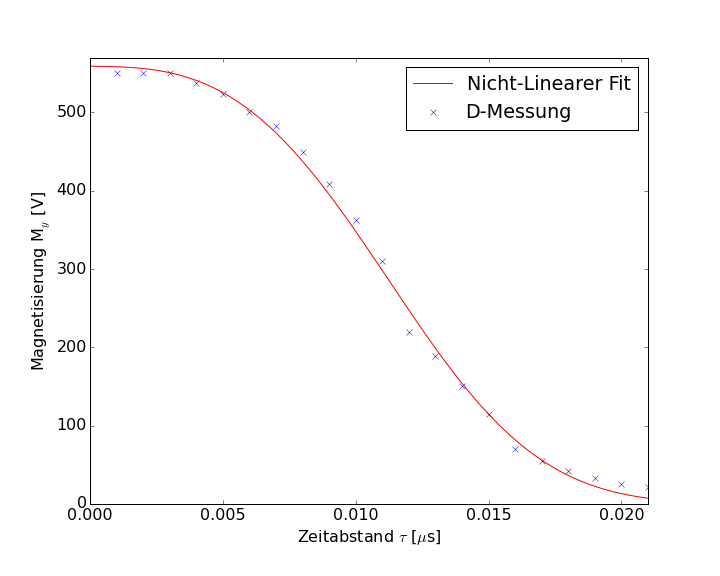
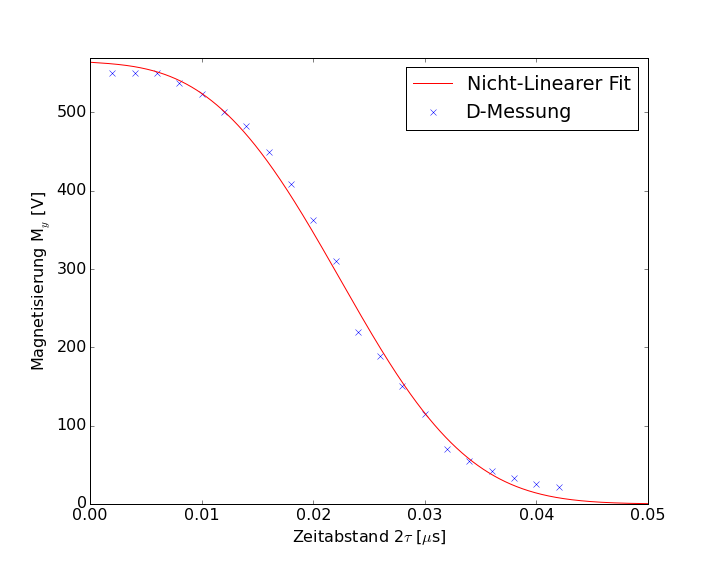
finale Verbesserungen V49

diff --git a/V49/Protokoll/protokoll.tex b/V49/Protokoll/protokoll.tex
@@ -448,13 +448,13 @@ wird eine nicht-lineare Ausgleichsrechnung durchgeführt, wobei dazu die Messwer
 \end{center}
 Die nicht-lineare Ausgleichsrechnung wird mit Python ausgeführt und ergibt 
 \begin{align*}
-M_0&=(559 \pm 4.5)\,\text{mV}\\
-D&=(1.11 \pm 0.03) 10^{-7}\,\text{m$^2$s$^{-1}$}
+M_0&=(564 \pm 4.8)\,\text{mV}\\
+D&=(1.70 \pm 0.04) 10^{-7}\,\text{m$^2$s$^{-1}$}
 \end{align*}
 Der Verlauf der angepassten Theoriekurve sowie die aufgenommenen Messdaten sind in Abbildung \ref{fig:D} zu sehen.
 \begin{center}
 	\includegraphics[width=10cm]{images/plotD.png}
-	\captionof{figure}{Gemessene Amplitude der M$_Y$-Komponente in Abhängigkeit des Zeitabstandes $\tau$ mit Nichtlinearem Fit}
+	\captionof{figure}{Gemessene Amplitude der M$_Y$-Komponente in Abhängigkeit des Zeitabstandes $\tau$ mit nichtlinearem Fit}
 	\label{fig:D}
 \end{center}
 \subsection{Bestimmung der Viskosität $\eta$}
@@ -475,9 +475,9 @@ bestimmt werden. So ergibt sich ein Molekülradius von
 r = 1.992\cdot10^{-12}\,\text{m}
 \end{align*}
 \subsubsection{Berechnung mit dichter-Kugelpackungs-Modell}
-Mit der Annahme, dass Wassermoleküle in einer hexagonal dichtesten Kugelpackung mit Packungsdichte 77\% angeordnet sind, ergibt sich für das Volumen eines Wassermoleküls
+Mit der Annahme, dass Wassermoleküle in einer hexagonal dichtesten Kugelpackung mit Packungsdichte 74\% angeordnet sind, ergibt sich für das Volumen eines Wassermoleküls
 \begin{align*}
-\text{V}=0.74 \frac{\text{M}}{\rho \text{N}_{\text{A}}}\,.
+\text{V}=0.74 \frac{\text{M}}{\rho \text{N}_{\text{A}}}=\frac{4}{3}\pi r_H^3\,.
 \end{align*}
 Mit M=18.015 gmol$^{-1}$[1], der molaren Masse von Wasser und $\rho$ der Dichte von Wasser ergibt sich für den Radius r der Wasser-Moleküle:
 \begin{align*}
@@ -500,14 +500,15 @@ ergibt. \\
 Der Radius r ergibt sich mit T$_c=647.17\si{K}$[1] und p$_c=220.64\si{bar}$[1] zu r =1.44$\cdot10^{-10}\si{m}$.
 
 \section{Diskussion}
+Auffällig ist, dass die Gleichgewichtsmagnetisierung in jeder der drei Auswertungen unterschiedlich ist, obwohl diese eine Konstante der Probe ist. \\
 Die longitudinale Relaxationszeit T$_1=(2.08 \pm 0.01)\si{s}$ sowie die transversale Relaxationszeit T$_2=(1.23 \pm 0.08)\si{s}$ können mit geringem Fehler bestimmt werden. Gemäß der Theorie ist dabei die longitudinale Relaxationszeit länger als die transversale Relaxationszeit. \\
-Der experimentell bestimmte Diffusionskoeffizient D=(1.11$\pm 0.03) \cdot10^{-7}\,\text{m}^2\text{s}^{-1}$ weicht hingegen deutlich vom Literaturwert D=$2.025\cdot10^{-7}\,\text{m}^2\text{s}^{-1}$[4] ab. \\
-Des weiteren ist festzustellen, dass der experimentell bestimmte Molekülradius r=$ 1.992\cdot10^{-12}\,\text{m}$ um zwei Größenordnungen von den berechneten Werten r=$1.74\cdot10^{-10}\si{m}$ und r=$1.44\cdot10^{-10}\si{m}$ abweicht. Eine der möglichen Ursachen dafür liegt in der Tatsache, dass kein destiliertes Wasser bei der Viskositätsmessung verwendet wurde und somit andere gelöste Stoffe einen Einfluss auf die Messung hatten.
+Der experimentell bestimmte Diffusionskoeffizient D\,$=(1.11\pm 0.03) \cdot10^{-7}\,\text{m}^2\text{s}^{-1}$ weicht hingegen deutlich vom Literaturwert D\,$=2.025\cdot10^{-7}\,\text{m}^2\text{s}^{-1}$[4] ab. \\
+Des Weiteren ist festzustellen, dass der experimentell bestimmte Molekülradius r=$ 1.992\cdot10^{-12}\,\text{m}$ um zwei Größenordnungen von den berechneten Werten r=$1.74\cdot10^{-10}\si{m}$ und r=$1.44\cdot10^{-10}\si{m}$ abweicht. Eine der möglichen Ursachen dafür liegt in der Tatsache, dass kein destiliertes Wasser bei der Viskositätsmessung verwendet wurde und somit andere gelöste Stoffe einen Einfluss auf die Messung hatten.
 
 \section{Quellen}
-[1] http://www.uni-magdeburg.de/isut/LSS/Lehre/Arbeitsheft/IV.pdf, Stand 11.02.16
-[2] Versuchsanleitung zu Versuch 49:
-http://129.217.224.2/HOMEPAGE/PHYSIKER/MASTER/SKRIPT/V49.pdf
-[3] Das große Tafelwerk, Cornelsen, 2010
-[4] http://pubs.rsc.org/en/content/articlepdf/2000/cp/b005319h, Stand 11.02.16
+{[1]} http://www.uni-magdeburg.de/isut/LSS/Lehre/Arbeitsheft/IV.pdf, Stand 11.02.16 \\
+{[2]} Versuchsanleitung zu Versuch 49:
+http://129.217.224.2/HOMEPAGE/PHYSIKER/MASTER/SKRIPT/V49.pdf \\
+{[3]} Das große Tafelwerk, Cornelsen, 2010 \\
+{[4]} http://pubs.rsc.org/en/content/articlepdf/2000/cp/b005319h, Stand 11.02.16
 \end{document}

diff --git a/V49/Daten/auswertung.py b/V49/Daten/auswertung.py
@@ -117,17 +117,17 @@ tau=unp.uarray(data2[0,:],0)
 M=unp.uarray(data2[1,:],0.02)
 
 guess = [500, (2*10**(-7))]
-x_plot=np.linspace(0,0.03, num=1000)
-params, covariance = curve_fit(h, unp.nominal_values(tau), unp.nominal_values(M), p0=guess)
+x_plot=np.linspace(0,0.06, num=2000)
+params, covariance = curve_fit(h, 2*unp.nominal_values(tau), unp.nominal_values(M), p0=guess)
 
 plt.figure()
 errM = unp.std_devs(M)
-plt.errorbar(unp.nominal_values(tau), unp.nominal_values(M) + errM, fmt='bx', label="D-Messung")
+plt.errorbar(2*unp.nominal_values(tau), unp.nominal_values(M) + errM, fmt='bx', label="D-Messung")
 plt.plot(x_plot, h(x_plot, *params), 'r-', label='Nicht-Linearer Fit')
 plt.legend(loc="best", numpoints=1)
-plt.xlim(0,0.021)
+plt.xlim(0,0.05)
 plt.ylim(0, 570)
-plt.xlabel(r'Zeitabstand $\tau$ [$\mu$s]')
+plt.xlabel(r'Zeitabstand 2$\tau$ [$\mu$s]')
 plt.ylabel(r'Magnetisierung M$_y$ [V]')
 plt.savefig('plotD.png')
 

diff --git a/V56/Protokoll/protokoll.tex b/V56/Protokoll/protokoll.tex
@@ -39,9 +39,9 @@
 {\large \versuchdatum}
 \vspace{7cm}
 \begin{center}
-\textbf{\huge Versuch \versuchnummer}\\
+\textbf{\huge Versuch \versuchnummer}{V56}\\
 \vspace{0.5cm}
-\textbf{\huge \versuchname}\\
+\textbf{\huge \versuchname}{Modulation und Demodulation elektrischer Schwingungen}\\
 \vspace{0.2cm}
 \textbf{ Physikalisches Fortgeschrittenenpraktikum}\\
 \vspace{9cm}
